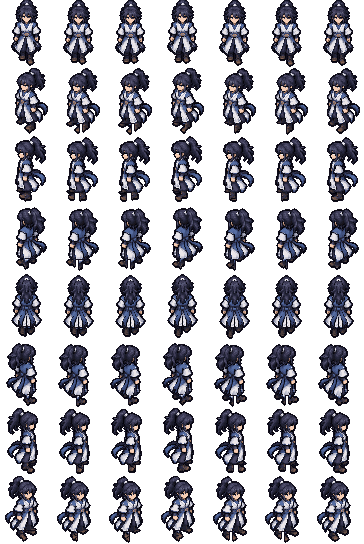
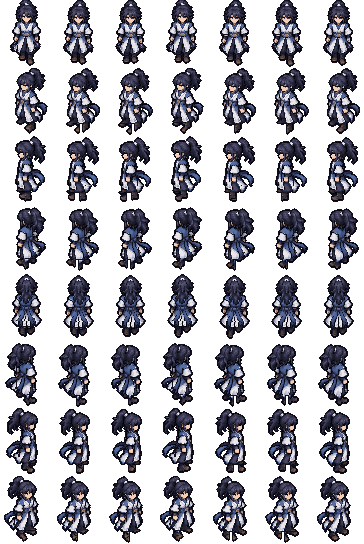
Hoạt ảnh đi: vung tay, đuôi tóc và dải đai lay theo bước
- walk_battle.py: PARTS theo hướng; tay ngược pha chân, tóc/dải đai uốn từ gốc ra ngọn
- version 0.12.1

Claude-Session: https://claude.ai/code/session_014A94BHnyL4tu48AS77QbVM

diff --git a/src/scenes/BootScene.ts b/src/scenes/BootScene.ts
@@ -15,7 +15,7 @@ export class BootScene extends Phaser.Scene {
 
   preload(): void {
     // 4 khung đi bộ, mỗi khung 21x38 (đã gồm viền) — lấy từ ảnh concept (tools/art/hero.px.js)
-    this.load.spritesheet(TEX.PLAYER, '/ui/hero_b_walk.png?v=0.12.0', { frameWidth: PLAYER_FRAME.w, frameHeight: PLAYER_FRAME.h });
+    this.load.spritesheet(TEX.PLAYER, '/ui/hero_b_walk.png?v=0.12.1', { frameWidth: PLAYER_FRAME.w, frameHeight: PLAYER_FRAME.h });
   }
 
   create(): void {

diff --git a/tools/art/walk_battle.py b/tools/art/walk_battle.py
@@ -10,6 +10,8 @@ Cách dựng mỗi khung:
     Chân A / B lệch pha nửa chu kỳ: sải dọc theo HƯỚNG ĐI trên màn hình (ngang: sải trước/sau; thẳng: tiến/lùi theo
     chiều dọc; chéo: cả hai) và NHẤC lên khi đang đưa về phía trước.
   - THÂN (trên LEG_Y): nhún lên 1 điểm ảnh lúc một chân đang đưa qua (giữa bước), vẽ đè lên chân (vạt áo che đùi).
+  - TAY (vùng cẳng tay + bàn tay, khai báo tay trong PARTS): đánh NGƯỢC pha với chân cùng bên, lệch 1 điểm ảnh theo hướng đi.
+  - ĐUÔI TÓC, DẢI ĐAI: lay ngang 2 lần mỗi chu kỳ (mỗi bước một lần), uốn dần từ gốc ra ngọn; dải đai trễ nhịp hơn tóc.
   - Viền ngoài 1px vẽ lại sau khi ghép.
 """
 import math
@@ -30,6 +32,20 @@ LEG_Y = {'s': 55, 'n': 55, 'se': 55, 'sw': 55, 'ne': 55, 'nw': 55, 'e': 56, 'w':
 FWD = {'s': (0, 1), 'n': (0, -1), 'e': (1, 0), 'w': (-1, 0), 'se': (0.8, 0.45), 'sw': (-0.8, 0.45), 'ne': (0.8, -0.45), 'nw': (-0.8, -0.45)}
 STRIDE = {'s': 1.5, 'n': 1.5, 'e': 3.2, 'w': 3.2, 'se': 2.6, 'sw': 2.6, 'ne': 2.6, 'nw': 2.6}
 LIFT = 2
+# Vùng cử động riêng trên từng hình (x0, y0, x1, y1 — x1/y1 không tính). arm: side 0 = tay bên trái màn hình
+# (đánh cùng pha chân phải màn hình), 1 = tay bên phải. hair/sash: root = 'top' (gốc ở trên, ngọn rủ xuống) hoặc
+# 'bottom' (gốc ở dưới — đuôi tóc vồng lên trên đầu khi nhìn thẳng). keep: không xóa chỗ cũ (vùng nằm giữa thân).
+PARTS = {
+    's': [('arm', (13, 34, 20, 43), 0), ('arm', (33, 34, 41, 43), 1), ('hair', (17, 0, 37, 10), 'bottom'),
+          ('sash', (11, 43, 18, 52), 'top'), ('sash', (35, 43, 43, 52), 'top')],
+    'se': [('arm', (15, 38, 23, 46), 0), ('arm', (28, 31, 37, 38), 1), ('hair', (8, 6, 20, 26), 'top'), ('sash', (5, 36, 15, 50), 'top')],
+    'e': [('arm', (24, 38, 31, 46), 0), ('hair', (7, 9, 16, 27), 'top'), ('sash', (7, 34, 20, 50), 'top')],
+    'ne': [('arm', (29, 37, 36, 45), 1), ('hair', (7, 15, 17, 36), 'top'), ('sash', (6, 38, 17, 50), 'top')],
+    'n': [('arm', (13, 35, 20, 43), 0), ('arm', (33, 35, 40, 43), 1), ('hair', (18, 17, 36, 36), 'top', 'keep'), ('sash', (18, 36, 35, 50), 'top', 'keep')],
+    'nw': [('arm', (16, 37, 23, 45), 0), ('hair', (32, 14, 46, 31), 'top'), ('sash', (34, 39, 47, 49), 'top')],
+    'w': [('arm', (21, 38, 28, 46), 1), ('hair', (34, 9, 46, 28), 'top'), ('sash', (33, 35, 46, 50), 'top')],
+    'sw': [('arm', (15, 32, 21, 38), 0), ('arm', (30, 39, 37, 46), 1), ('hair', (34, 6, 46, 24), 'top'), ('sash', (36, 36, 48, 49), 'top')],
+}
 
 
 def components(mask):
@@ -61,6 +77,46 @@ def outline(img):
     img[edge, :3] = OUTLINE
     img[edge, 3] = 255
     return img
+
+
+def move_region(src, dst, box, off_fn, keep):
+    """Dời các điểm ảnh trong box theo off_fn(y) → (dx, dy); keep = không xóa chỗ cũ"""
+    x0, y0, x1, y1 = box
+    blk = src[y0:y1, x0:x1].copy()
+    if not keep:
+        dst[y0:y1, x0:x1][blk[:, :, 3] > 0] = 0
+    for yy in range(y1 - y0):
+        dx, dy = off_fn(y0 + yy)
+        for xx in range(x1 - x0):
+            if blk[yy, xx, 3] == 0:
+                continue
+            ty, tx = y0 + yy + dy, x0 + xx + dx
+            if 0 <= ty < H and 0 <= tx < W:
+                dst[ty, tx] = blk[yy, xx]
+
+
+def animate_parts(upper, d, t, fx, fy):
+    out = upper.copy()
+    for part in PARTS.get(d, []):
+        kind, box = part[0], part[1]
+        keep = 'keep' in part[3:]
+        if kind == 'arm':
+            ph = t + math.pi if part[2] == 0 else t          # ngược pha chân cùng bên
+            sw = math.sin(ph) * 1.2
+            dx, dy = round(fx * sw), round(fy * sw)
+            if dx or dy:
+                move_region(upper, out, box, lambda y, dx=dx, dy=dy: (dx, dy), keep)
+        else:
+            lag = 0.9 if kind == 'hair' else 1.8
+            amp = 1.4 if kind == 'hair' else 1.8
+            sway = math.sin(2 * t - lag) * amp
+            x0, y0, x1, y1 = box
+            if part[2] == 'top':
+                f = lambda y, sway=sway, y0=y0, y1=y1: (round(sway * max(0, y - y0) / max(1, y1 - 1 - y0)), 0)
+            else:
+                f = lambda y, sway=sway, y0=y0, y1=y1: (round(sway * max(0, y1 - 1 - y) / max(1, y1 - 1 - y0)), 0)
+            move_region(out.copy(), out, box, f, keep)
+    return out
 
 
 sheet = np.zeros((H * len(DIRS), W * (N + 1), 4), np.uint8)
@@ -98,10 +154,11 @@ for r, d in enumerate(DIRS):
                 if 0 <= yy < H and 0 <= xx < W:
                     img[yy, xx] = base[y, x]
         bob = -1 if abs(math.cos(t)) > 0.7 else 0          # giữa bước: thân nhô lên 1 điểm ảnh
-        ua = upper[:, :, 3] > 0
+        up = animate_parts(upper, d, t, fx, fy)
+        ua = up[:, :, 3] > 0
         ys, xs = np.where(ua)
         ok = (ys + bob >= 0) & (ys + bob < H)
-        img[ys[ok] + bob, xs[ok]] = upper[ys[ok], xs[ok]]
+        img[ys[ok] + bob, xs[ok]] = up[ys[ok], xs[ok]]
         img = outline(img)
         sheet[r * H:(r + 1) * H, f * W:(f + 1) * W] = img
         frames.append(img)

diff --git a/CHANGELOG.md b/CHANGELOG.md
@@ -1,5 +1,9 @@
 # Lịch sử phiên bản
 
+## v0.12.1 — Vung tay, tóc và dải đai lay theo bước
+- `walk_battle.py`: khai báo vùng cẳng tay + bàn tay, đuôi tóc, dải đai trên từng hướng (`PARTS`).
+- Tay đánh ngược pha với chân cùng bên, lệch theo hướng đi; đuôi tóc + dải đai lay ngang mỗi bước, uốn dần từ gốc ra ngọn, dải đai trễ nhịp hơn tóc.
+
 ## v0.12.0 — Nhân vật trong trận: 8 hướng + đi bộ
 - Sprite mới góc nhìn top-down nghiêng, chuyển từ ảnh mẫu 8 hướng (`tools/art/ref/hero_battle_ref.webp`) bằng `tools/art/trace_battle.py`: tách nền + bóng, căn chân, bảng 40 màu chung cho 8 hướng, thu nhỏ 1/6 giữ nét tối.
 - Sheet di chuyển `public/ui/hero_b_walk.png` (`tools/art/walk_battle.py`): 8 hàng hướng (s, sw, w, nw, n, ne, e, se) × 6 khung đi + 1 khung đứng, khung 52x68. Chân tách đôi, sải theo hướng đi + nhấc chân, thân nhún 1 điểm ảnh giữa bước.
